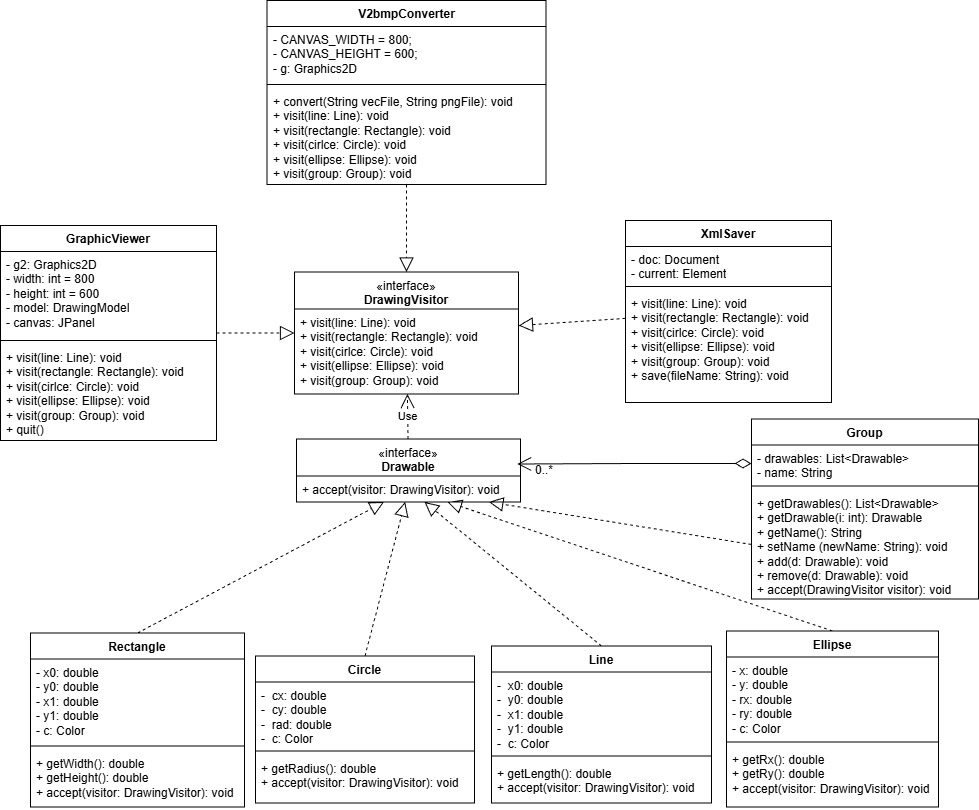
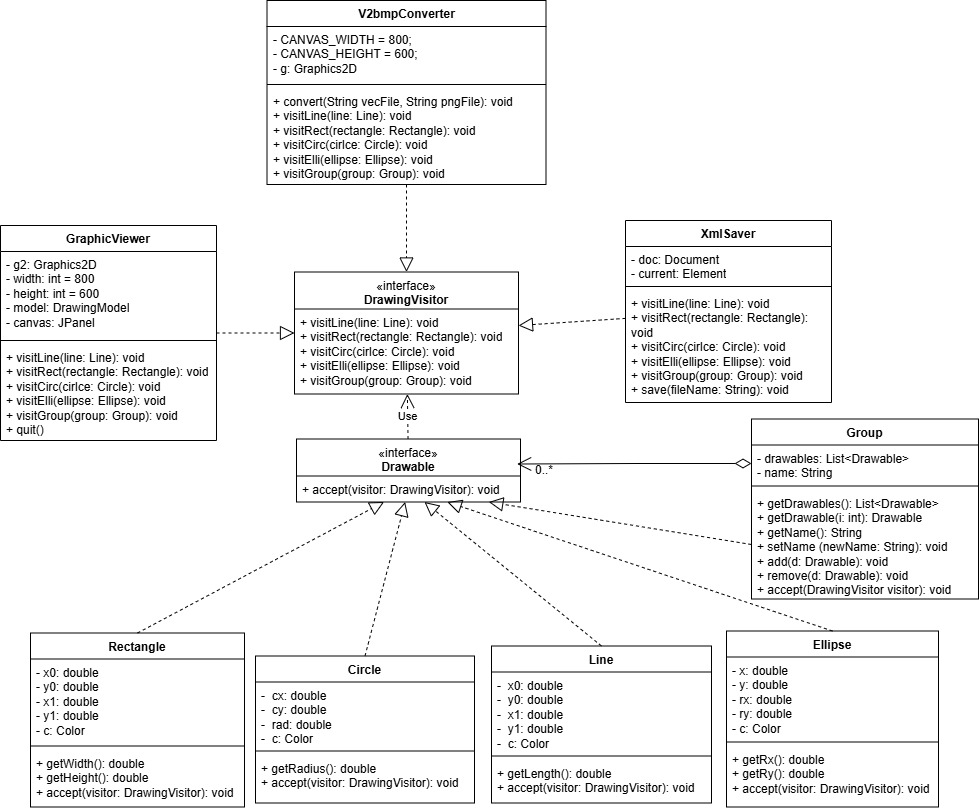
update

diff --git a/src/main/java/com/drawing/model/converter/V2bmpConverter.java b/src/main/java/com/drawing/model/converter/V2bmpConverter.java
@@ -59,7 +59,7 @@ public class V2bmpConverter implements DrawingVisitor {
 
     /** {@inheritDoc} */
     @Override
-    public void visit(Line line) {
+    public void visitLine(Line line) {
         g.setColor(line.getColor());
         g.drawLine((int) Math.round(line.getX0()),
                 (int) Math.round(line.getY0()),
@@ -70,7 +70,7 @@ public class V2bmpConverter implements DrawingVisitor {
 
     /** {@inheritDoc} */
     @Override
-    public void visit(Rectangle rectangle) {
+    public void visitRect(Rectangle rectangle) {
         g.setColor(rectangle.getColor());
         int x0 = (int) Math.round(Math.min(rectangle.getX0(), rectangle.getX1()));
         int y0 = (int) Math.round(Math.min(rectangle.getY0(), rectangle.getY1()));
@@ -81,7 +81,7 @@ public class V2bmpConverter implements DrawingVisitor {
 
     /** {@inheritDoc} */
     @Override
-    public void visit(Circle circle) {
+    public void visitCirc(Circle circle) {
         g.setColor(circle.getColor());
         double r = circle.getRad();
         int x = (int) Math.round(circle.getCx() - r);
@@ -92,7 +92,7 @@ public class V2bmpConverter implements DrawingVisitor {
 
     /** {@inheritDoc} */
     @Override
-    public void visit(Ellipse ellipse) {
+    public void visitElli(Ellipse ellipse) {
         g.setColor(ellipse.getColor());
         int x = (int) Math.round(ellipse.getX() - ellipse.getRx());
         int y = (int) Math.round(ellipse.getY() - ellipse.getRy());
@@ -103,7 +103,7 @@ public class V2bmpConverter implements DrawingVisitor {
 
     /** {@inheritDoc} */
     @Override
-    public void visit(Group group) {
+    public void visitGroup(Group group) {
         for (Drawable d : group.getDrawables()) {
             d.accept(this);
         }

diff --git a/src/main/java/com/drawing/model/shape/DrawingVisitor.java b/src/main/java/com/drawing/model/shape/DrawingVisitor.java
@@ -9,18 +9,18 @@ package com.drawing.model.shape;
 public interface DrawingVisitor {
 
     /** @param line segment à traiter */
-    void visit(Line line);
+    void visitLine(Line line);
 
     /** @param rectangle rectangle à traiter */
-    void visit(Rectangle rectangle);
+    void visitRect(Rectangle rectangle);
 
     /** @param circle cercle à traiter */
-    void visit(Circle circle);
+    void visitCirc(Circle circle);
 
     /** @param ellipse ellipse à traiter */
-    void visit(Ellipse ellipse);
+    void visitElli(Ellipse ellipse);
 
     /** @param group groupe (composite) à traiter */
-    void visit(Group group);
+    void visitGroup(Group group);
 
 }

diff --git a/src/main/java/com/drawing/model/xml/XmlSaver.java b/src/main/java/com/drawing/model/xml/XmlSaver.java
@@ -45,7 +45,7 @@ public class XmlSaver implements DrawingVisitor {
      * @param r rectangle à sérialiser sous la forme {@code <rect .../>}
      */
     @Override
-    public void visit(Rectangle r) {
+    public void visitRect(Rectangle r) {
         Element e = doc.createElement("rect");
         e.setAttribute("x0", String.valueOf(r.getX0()));
         e.setAttribute("y0", String.valueOf(r.getY0()));
@@ -59,7 +59,7 @@ public class XmlSaver implements DrawingVisitor {
      * @param c cercle à sérialiser sous la forme {@code <circ .../>}
      */
     @Override
-    public void visit(Circle c) {
+    public void visitCirc(Circle c) {
         Element e = doc.createElement("circ");
         e.setAttribute("cx", String.valueOf(c.getCx()));
         e.setAttribute("cy", String.valueOf(c.getCy()));
@@ -72,7 +72,7 @@ public class XmlSaver implements DrawingVisitor {
      * @param l ligne à sérialiser sous la forme {@code <line .../>}
      */
     @Override
-    public void visit(Line l) {
+    public void visitLine(Line l) {
         Element e = doc.createElement("line");
         e.setAttribute("x0", String.valueOf(l.getX0()));
         e.setAttribute("y0", String.valueOf(l.getY0()));
@@ -86,7 +86,7 @@ public class XmlSaver implements DrawingVisitor {
      * @param ell ellipse à sérialiser sous la forme {@code <elli .../>}
      */
     @Override
-    public void visit(Ellipse ell) {
+    public void visitElli(Ellipse ell) {
         Element e = doc.createElement("elli");
         e.setAttribute("x", String.valueOf(ell.getX()));
         e.setAttribute("y", String.valueOf(ell.getY()));
@@ -100,7 +100,7 @@ public class XmlSaver implements DrawingVisitor {
      * @param g groupe à sérialiser ; les enfants sont imbriqués sous {@code <group>}.
      */
     @Override
-    public void visit(Group g) {
+    public void visitGroup(Group g) {
         Element groupEl = doc.createElement("group");
         groupEl.setAttribute("label", g.getName());
         current.appendChild(groupEl);

diff --git a/src/main/java/com/drawing/view/GraphicViewer.java b/src/main/java/com/drawing/view/GraphicViewer.java
@@ -65,7 +65,7 @@ public class GraphicViewer extends JPanel implements DrawingVisitor, ModelListen
      * @param line segment à tracer
      */
     @Override
-    public void visit(Line line) {
+    public void visitLine(Line line) {
         g2.setColor(line.getColor());
         g2.draw(new Line2D.Double(line.getX0(), line.getY0(), line.getX1(), line.getY1()));
     }
@@ -76,7 +76,7 @@ public class GraphicViewer extends JPanel implements DrawingVisitor, ModelListen
      * @param rectangle rectangle à tracer
      */
     @Override
-    public void visit(Rectangle rectangle) {
+    public void visitRect(Rectangle rectangle) {
         g2.setColor(rectangle.getColor());
         g2.draw(new Rectangle2D.Double(
                 rectangle.getX0(),
@@ -92,7 +92,7 @@ public class GraphicViewer extends JPanel implements DrawingVisitor, ModelListen
      * @param circle cercle à tracer
      */
     @Override
-    public void visit(Circle circle) {
+    public void visitCirc(Circle circle) {
         g2.setColor(circle.getColor());
         g2.draw(new Ellipse2D.Double(
                 circle.getCx() - circle.getRad(),
@@ -108,7 +108,7 @@ public class GraphicViewer extends JPanel implements DrawingVisitor, ModelListen
      * @param ellipse ellipse à tracer
      */
     @Override
-    public void visit(Ellipse ellipse) {
+    public void visitElli(Ellipse ellipse) {
         g2.setColor(ellipse.getColor());
         g2.draw(new Ellipse2D.Double(
                 ellipse.getX() - ellipse.getRx(),
@@ -124,7 +124,7 @@ public class GraphicViewer extends JPanel implements DrawingVisitor, ModelListen
      * @param group nœud composite
      */
     @Override
-    public void visit(Group group) {
+    public void visitGroup(Group group) {
         for (Drawable d : group.getDrawables()) {
             d.accept(this);
         }

diff --git a/src/main/java/com/drawing/controller/command/MergeCommand.java b/src/main/java/com/drawing/controller/command/MergeCommand.java
@@ -36,8 +36,8 @@ public class MergeCommand implements EditorCommand {
             saver.reset();
             Group a = new Group(loadDrawables(params[0]), "a");
             Group b = new Group(loadDrawables(params[1]), "b");
-            saver.visit(a);
-            saver.visit(b);
+            saver.visitGroup(a);
+            saver.visitGroup(b);
             saver.save(params[2]);
             return "La fusion est terminée.";
         } catch (Exception e) {

diff --git a/src/main/java/com/drawing/model/shape/Circle.java b/src/main/java/com/drawing/model/shape/Circle.java
@@ -66,7 +66,7 @@ public class Circle implements Drawable {
     /** {@inheritDoc} */
     @Override
     public void accept(DrawingVisitor visitor) {
-        visitor.visit(this);
+        visitor.visitCirc(this);
     }
 
     /**

diff --git a/src/main/java/com/drawing/model/shape/Ellipse.java b/src/main/java/com/drawing/model/shape/Ellipse.java
@@ -58,7 +58,7 @@ public class Ellipse implements Drawable {
     /** {@inheritDoc} */
     @Override
     public void accept(DrawingVisitor visitor) {
-        visitor.visit(this);
+        visitor.visitElli(this);
     }
 
     /**

diff --git a/src/main/java/com/drawing/model/shape/Group.java b/src/main/java/com/drawing/model/shape/Group.java
@@ -77,7 +77,7 @@ public class Group implements Drawable {
     /** {@inheritDoc} */
     @Override
     public void accept(DrawingVisitor visitor) {
-        visitor.visit(this);
+        visitor.visitGroup(this);
     }
 
     /**

diff --git a/src/main/java/com/drawing/model/shape/Line.java b/src/main/java/com/drawing/model/shape/Line.java
@@ -65,7 +65,7 @@ public class Line implements Drawable {
     /** {@inheritDoc} */
     @Override
     public void accept(DrawingVisitor visitor) {
-        visitor.visit(this);
+        visitor.visitLine(this);
     }
 
     /**

diff --git a/src/main/java/com/drawing/model/shape/Rectangle.java b/src/main/java/com/drawing/model/shape/Rectangle.java
@@ -68,7 +68,7 @@ public class Rectangle implements Drawable {
     /** {@inheritDoc} */
     @Override
     public void accept(DrawingVisitor visitor) {
-        visitor.visit(this);
+        visitor.visitRect(this);
     }
 
     /**